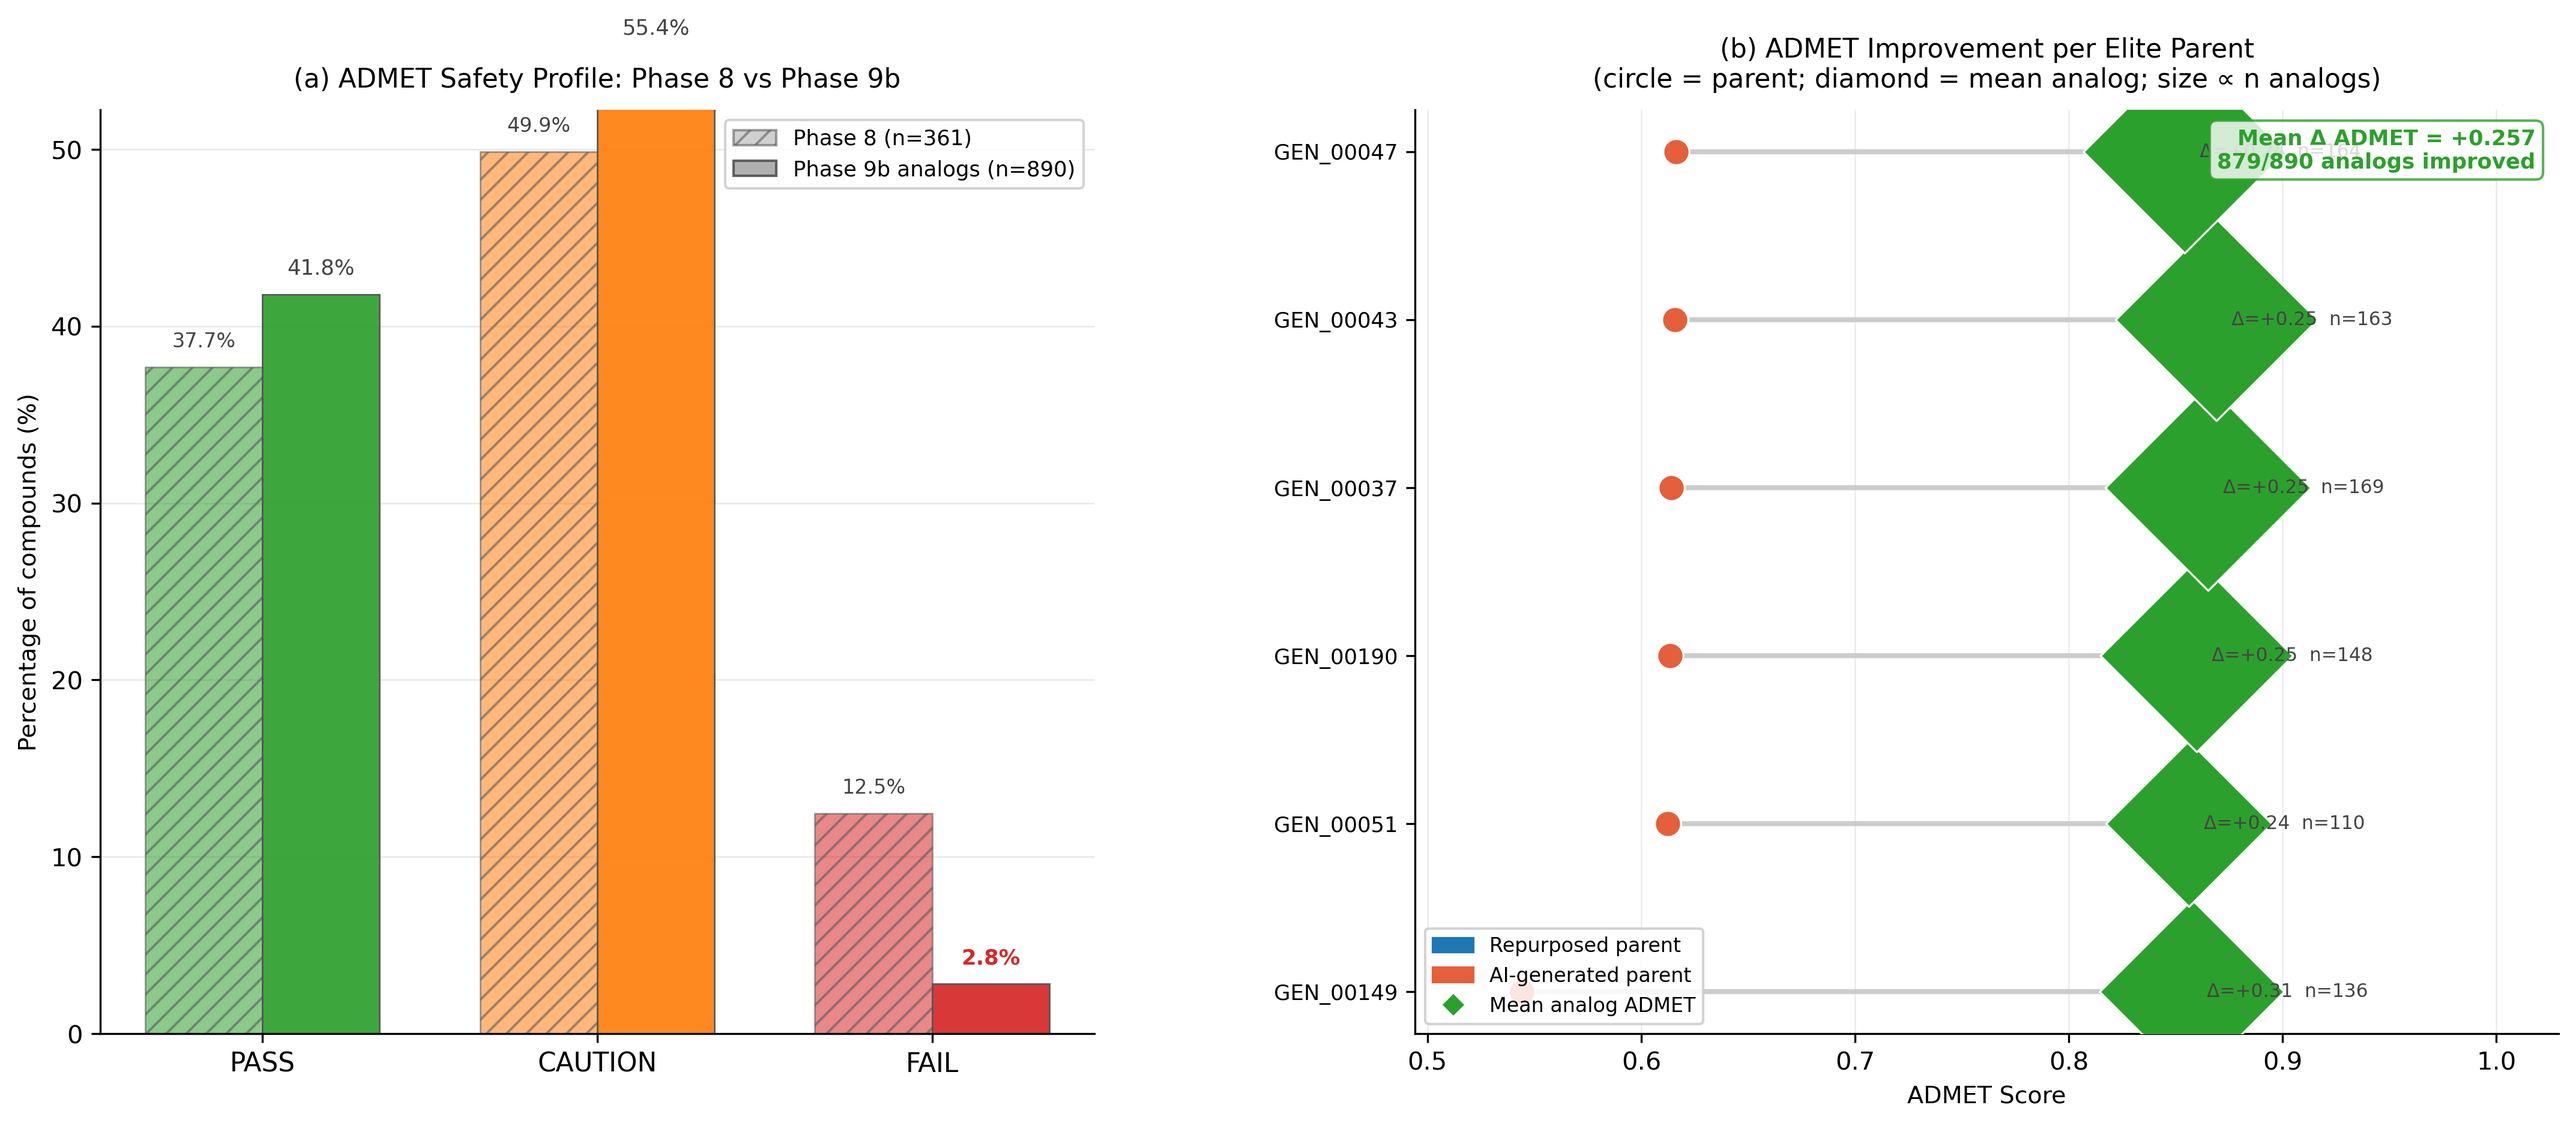
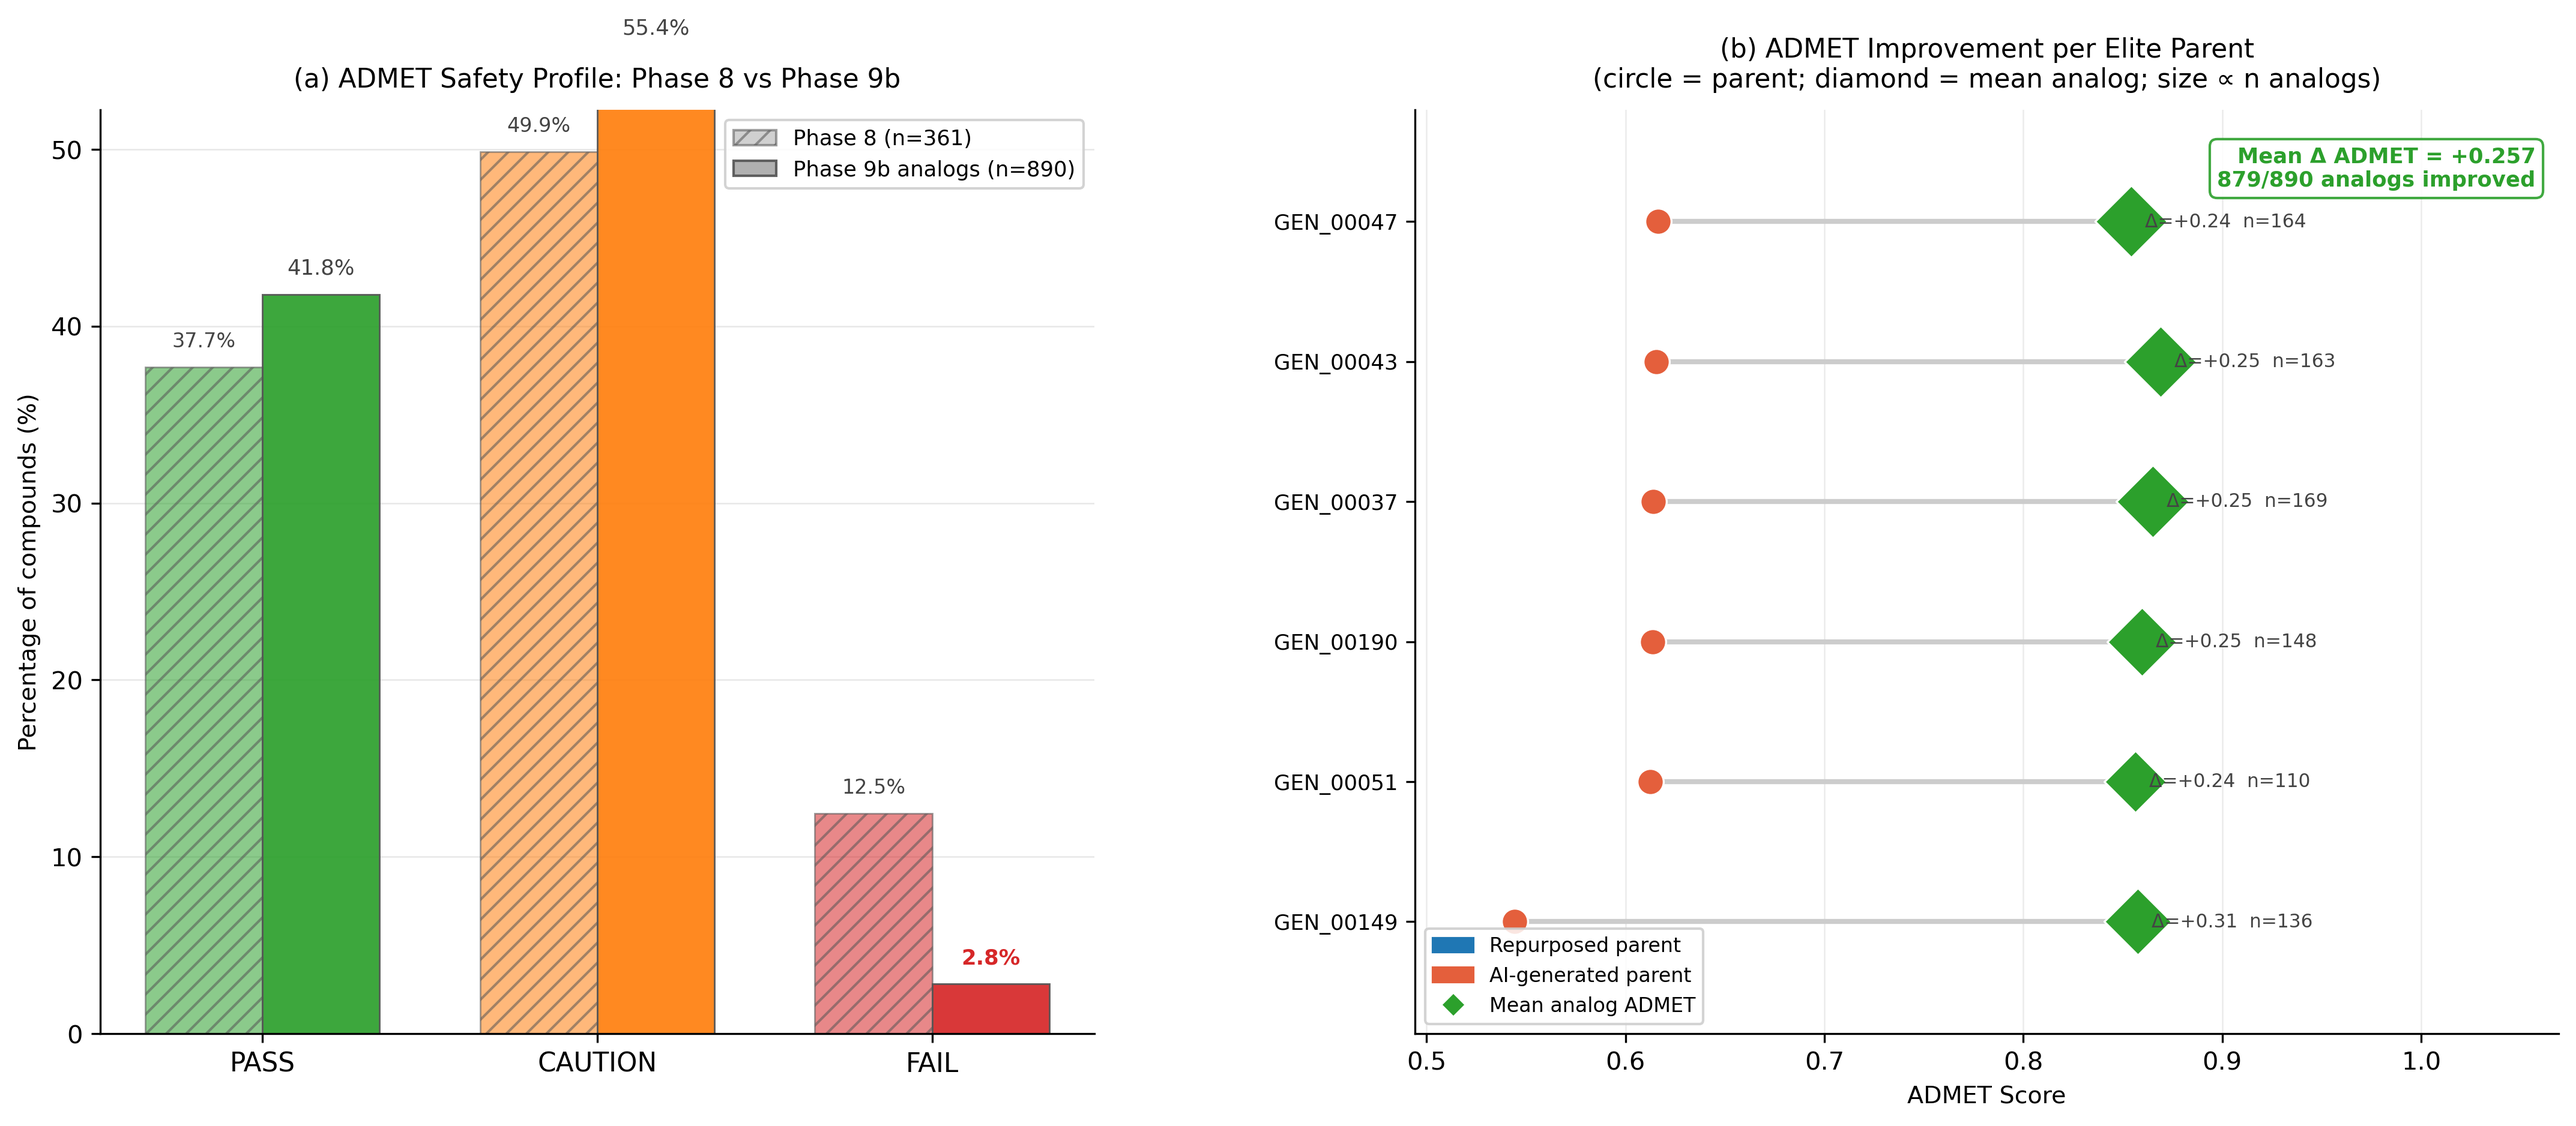
Fix Fig7 panel (b) diamond markers overlapping adjacent rows and summary box
Root cause: size = max(80, n_analogs*20) produced markers up to ~3,400 pts^2
for n_analogs~170, large enough to visually overlap neighboring rows'
diamonds and obscure several 'Δ=' annotations, plus collide with the
'Mean Δ ADMET' summary box positioned over the top row. Reduced scaling to
size = 90 + n_analogs*2 (range ~280-430 pts^2, comparable to the parent
circles) and added y-axis headroom. All underlying data (n=6 parents,
296/890 -> 879/890 improved analogs, mean ΔADMET=+0.257) verified against
leadopt/results/leadopt_summary.json and analogs_all.tsv -- no other
changes needed in the Scaffold-constrained lead optimization section.

diff --git a/documents/generate_leadopt_figure.py b/documents/generate_leadopt_figure.py
@@ -166,9 +166,10 @@ for i, row in valid.iterrows():
     ax_b.scatter(row["parent_admet"], i, s=110, c=c,
                  edgecolors="white", linewidths=0.8, zorder=3)
 
-# Analog diamonds (green, sized by n_analogs)
+# Analog diamonds (green, sized by n_analogs) -- modest linear scaling so
+# markers stay well within row spacing and never touch neighbouring rows
 for i, row in valid.iterrows():
-    size = max(80, int(row["n_analogs"]) * 20)
+    size = 90 + int(row["n_analogs"]) * 2
     ax_b.scatter(row["mean_analog_admet"], i, s=size,
                  c="#2ca02c", marker="D",
                  edgecolors="white", linewidths=0.8, zorder=3)
@@ -183,8 +184,9 @@ for i, row in valid.iterrows():
 ax_b.set_yticks(y_pos)
 ax_b.set_yticklabels(valid["label"], fontsize=8.5)
 ax_b.set_xlabel("ADMET Score", fontsize=9.5)
+ax_b.set_ylim(-0.8, len(valid) - 0.2)
 ax_b.set_xlim(valid["parent_admet"].min() - 0.05,
-              valid["mean_analog_admet"].max() + 0.16)
+              valid["mean_analog_admet"].max() + 0.20)
 ax_b.set_title(
     "(b) ADMET Improvement per Elite Parent\n"
     "(circle = parent; diamond = mean analog; size ∝ n analogs)",
@@ -194,12 +196,12 @@ ax_b.spines[["top", "right"]].set_visible(False)
 ax_b.xaxis.grid(True, alpha=0.25, lw=0.6)
 ax_b.set_axisbelow(True)
 
-ax_b.text(0.98, 0.98,
-          f"Mean Δ ADMET = {mean_delta:+.3f}\n"
+ax_b.text(0.98, 0.96,
+          f"Mean \u0394 ADMET = {mean_delta:+.3f}\n"
           f"{n_improved}/{p9_tot} analogs improved",
           transform=ax_b.transAxes, ha="right", va="top", fontsize=8.5,
           color="#2ca02c", fontweight="bold",
-          bbox=dict(facecolor="white", alpha=0.80,
+          bbox=dict(facecolor="white", alpha=0.90,
                     edgecolor="#2ca02c", boxstyle="round,pad=0.35"))
 
 src_handles = [
